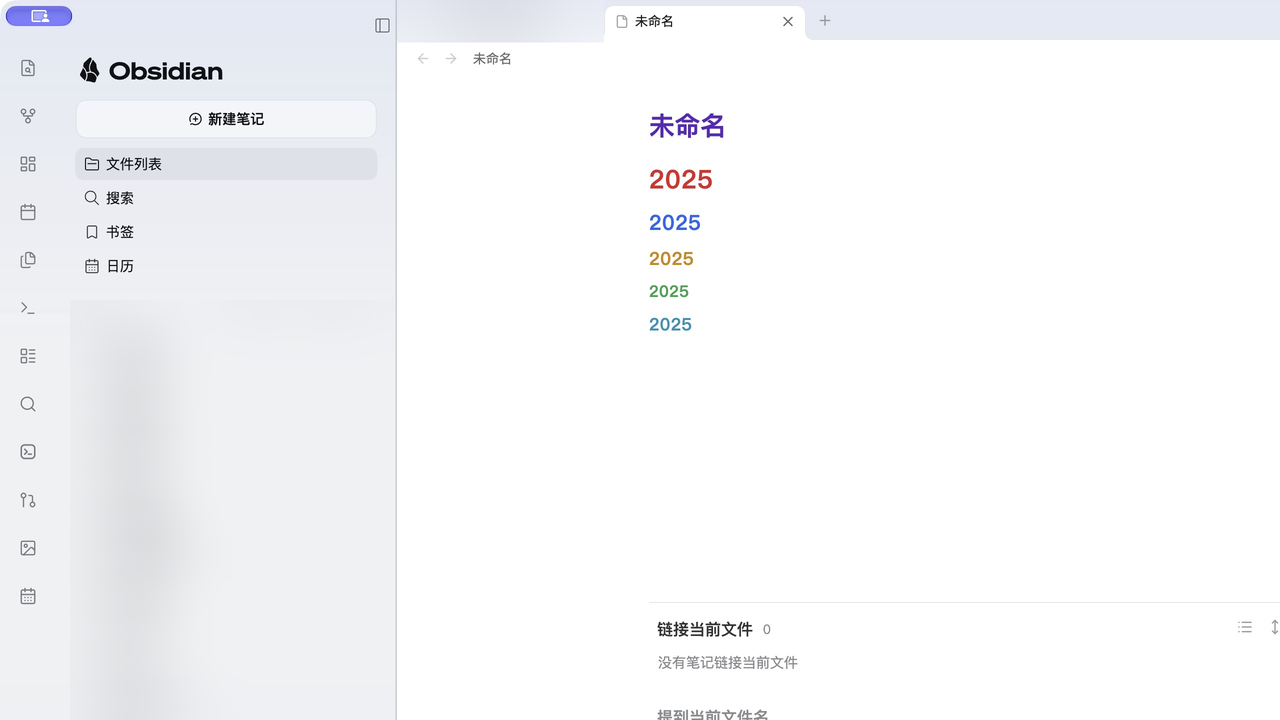
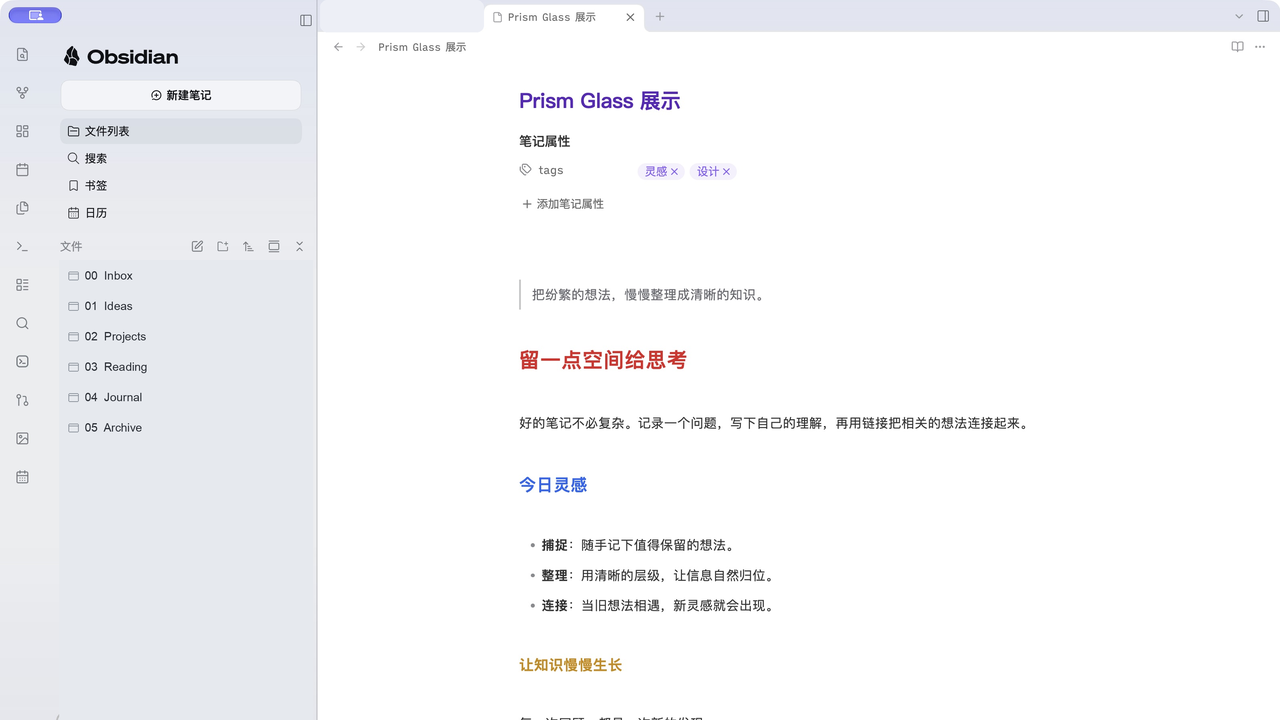
Improve theme preview with example note

diff --git a/example-note.md b/example-note.md
@@ -1,0 +1,28 @@
+---
+tags: [灵感, 设计]
+---
+
+> 把纷繁的想法，慢慢整理成清晰的知识。
+
+# 留一点空间给思考
+
+好的笔记不必复杂。记录一个问题，写下自己的理解，再用链接把相关的想法连接起来。
+
+## 今日灵感
+
+- **捕捉**：随手记下值得保留的想法。
+- **整理**：用清晰的层级，让信息自然归位。
+- **连接**：当旧想法相遇，新灵感就会出现。
+
+### 让知识慢慢生长
+
+每一次回顾，都是一次新的发现。
+
+#### 下一步
+
+- [x] 整理今天的笔记
+- [ ] 为明天留一个好问题
+
+##### 小小的进步，值得记录
+
+###### 记录 · 思考 · 连接

diff --git a/README.md b/README.md
@@ -2,7 +2,7 @@
 
 An Obsidian desktop theme inspired by the sidebar of DeepSeek Harness. It uses Obsidian's built-in styling as its base and adds a translucent sidebar, light and dark colors, and a vertical navigation layout.
 
-> The theme is prepared for community review. The screenshot shows the optional companion plugin enabled; the file list and another tab are blurred for privacy.
+> The theme is prepared for community review. The screenshot shows the optional companion plugin enabled; the file list uses illustrative names and another tab is hidden for privacy.
 
 ![Prism Glass screenshot](screenshot.png)
 
